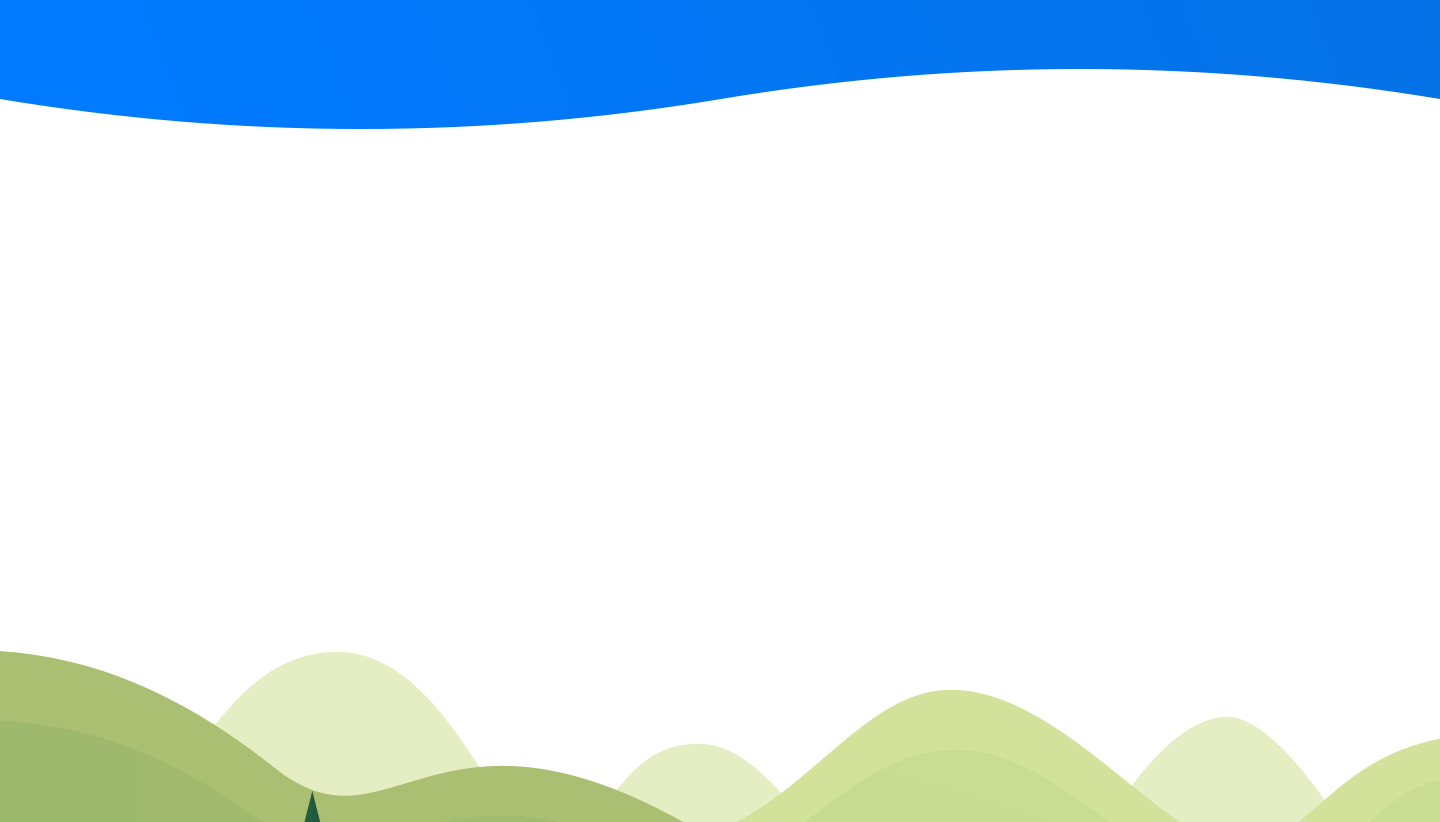
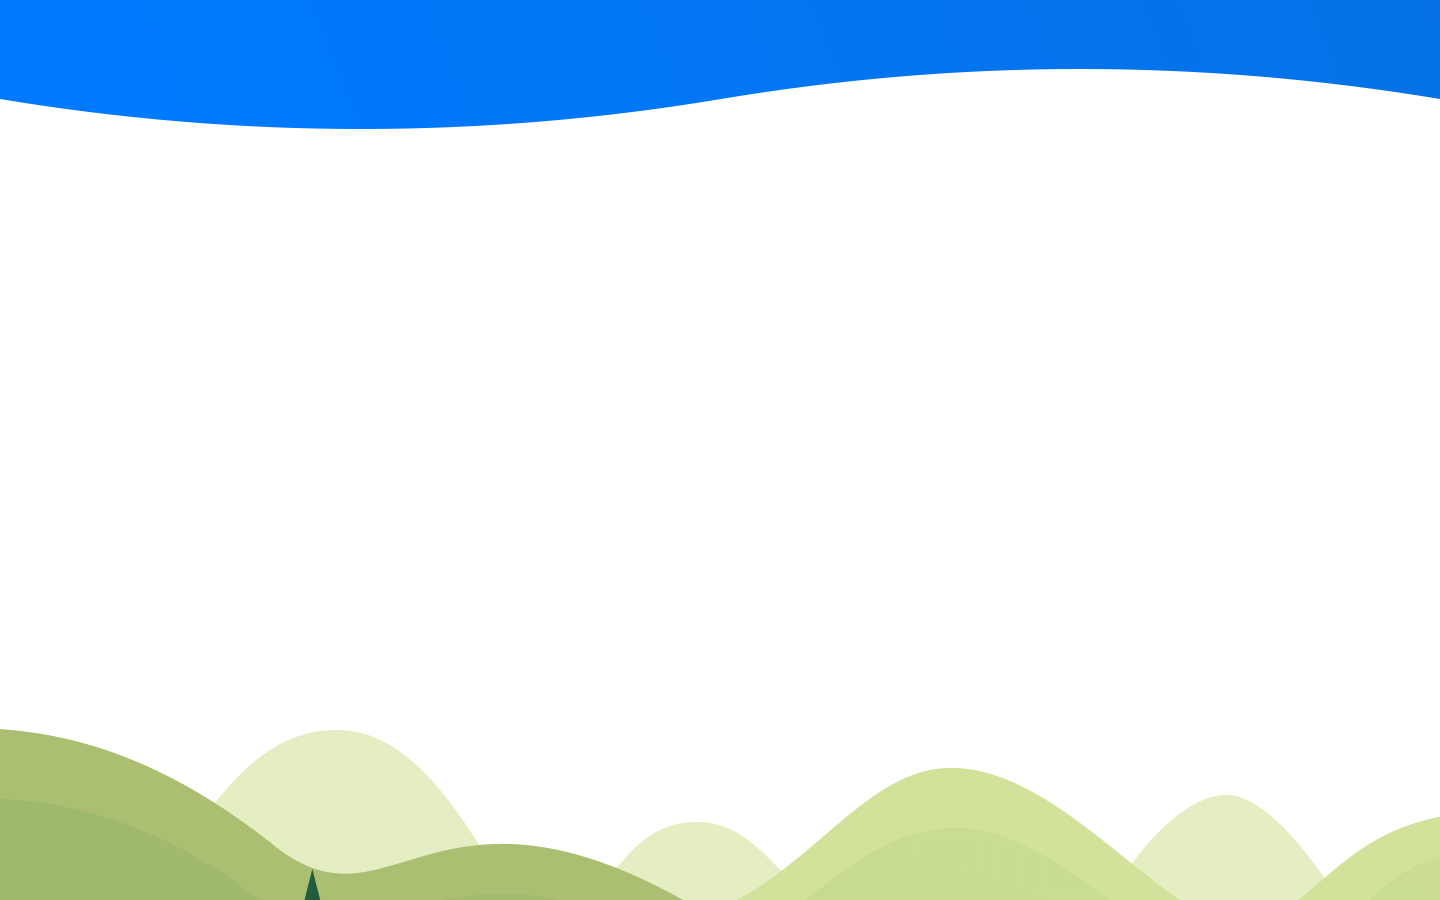
Finish Breakpoints (less 4K and Small Mobile)

diff --git a/frontend/src/components/TextContainer/styles.js b/frontend/src/components/TextContainer/styles.js
@@ -12,7 +12,22 @@ export const Container = styled.div`
   > h2 {
     margin-left: 65px;
   }
+
+  /* @media (max-width: 2560px) {
+    
+    h2 {
+      font-size: 40px;
+    }
+  } */
   
+  @media (max-width: 1440px) {
+    margin-right: 40px;
+  }
+
+  @media (max-width: 1024px) {
+    margin-right: 0;
+  }
+
   @media (max-width: 768px) {
     h2 {
       display: none;
@@ -35,13 +50,45 @@ export const Header = styled.div`
     margin-top: -160px;
   }
 
+  /* @media (max-width: 2560px) {
+    padding: 0;
+    
+    img {
+      height: 320px;
+      width: 400px;
+      margin-top: -100px;
+    }
+
+    h1 {
+      margin-top: 20px;
+      margin-left: -80px;
+      font-size: 70px;
+    }
+  } */
+
+  @media (max-width: 1440px) {
+    padding: 0;
+    
+    img {
+      height: 180px;
+      width: 260px;
+      margin-top: -145px;
+    }
+
+    h1 {
+      margin-top: -70px;
+      margin-left: -60px;
+      font-size: 45px;
+    }
+  }
+
   @media (max-width: 1024px) {
     padding: 0;
     
     img {
       height: 140px;
       width: 200px;
-      margin-top: -125px;
+      margin-top: -135px;
     }
 
     h1 {
@@ -68,7 +115,7 @@ export const Header = styled.div`
     img {
       height: 160px;
       width: 230px;
-      margin-top: 150px;
+      margin-top: 100px;
       opacity: 0.2;
     }
   }
@@ -97,6 +144,22 @@ export const Room = styled.div`
     margin:0;
     padding: 3px;
   }
+
+  /* @media (max-width: 2560px) {
+    
+    h1 {
+      margin: 0;
+      font-size: 60px;
+    }
+
+    img {
+      height: 60px;
+      width: 60px;
+      opacity: 0.7;
+      margin:0;
+      padding: 3px;
+    }
+  } */
 
   @media (max-width: 1024px) {
     h1, img {
@@ -131,6 +194,22 @@ export const Users = styled.div`
     padding: 3px;
   }
 
+   /* @media (max-width: 2560px) {
+    
+    h1 {
+      margin: 0;
+      font-size: 60px;
+    }
+
+    img {
+      height: 60px;
+      width: 60px;
+      opacity: 0.7;
+      margin:0;
+      padding: 3px;
+    }
+  } */
+
   @media (max-width: 768px) {
     h1 {
       display: none;
@@ -146,6 +225,13 @@ export const ActiveContainer = styled.div`
   display: flex;
   align-items: center;
   margin-bottom: 50%;
+
+  /* @media (max-width: 2560px) {
+    
+    h2 {
+      font-size: 40px;
+    }
+  } */
 `;
 
 export const ActiveItem = styled.div`

diff --git a/frontend/src/Pages/Login/styles.js b/frontend/src/Pages/Login/styles.js
@@ -10,12 +10,45 @@ export const Container = styled.div`
   text-align: center;
   height: 100vh;
   align-items: center;
-  background: url(${background}) no-repeat bottom;
+  background: url(${background}) no-repeat top;
+  background-size: cover;
 
   > img {
     width: 280px;
     height: 180px;
     margin-top: -130px;
+  }
+
+  @media (max-width: 2560px) {
+    img {
+      width: 350px;
+      height: 250px;
+      margin-top: -300px;
+    }
+  }
+
+  @media (max-width: 1440px) {
+    img {
+      width: 290px;
+      height: 200px;
+      margin-top: -200px;
+    }
+  }
+
+  @media (max-width: 1024px) {
+    img {
+      width: 250px;
+      height: 170px;
+      margin-top: -100px;
+    }
+  }
+
+  @media (max-width: 768px) {
+    img {
+      width: 230px;
+      height: 150px;
+      margin-top: -130px;
+    }
   }
 
   @media (max-width: 426px) {
@@ -50,16 +83,40 @@ export const Main = styled.div`
     border-radius: 8px 8px 0 0;
   }
 
+  @media (max-width: 2560px) {
+    width: 17%;
+    height:20%;
+  }
+
+  @media (max-width: 1440px) {
+    width: 27%;
+    height:35%;
+  }
+
+  @media (max-width: 1024px) {
+    width: 25%;
+    height:43%;
+  }
+
   @media (max-width: 1025px) {
     width: 35%;
   }
 
-  @media (max-width: 769px) {
+  @media (max-width: 768px) {
     width: 45%;
   }
 
   @media (max-width: 426px) {
     width: 70%;
+  }
+
+  @media (max-width: 320px) {
+    width: 80%;
+    height: 40%;
+    
+    h1 {
+      font-size: 25px;
+    }
   }
 `;
 

diff --git a/frontend/src/Pages/Chat/styles.js b/frontend/src/Pages/Chat/styles.js
@@ -8,7 +8,7 @@ export const Container = styled.div`
   align-items: center;
   height: 100vh;
   background: url(${background}) no-repeat top;
-
+  background-size: cover;
 
   @media (max-width: 425px) {
     background: url(${shape}) no-repeat bottom;
@@ -25,24 +25,35 @@ export const Main = styled.div`
   width: 35%;
   box-shadow: -40px 40px 30px rgba(0, 0, 0, 0.2);
 
-  @media (max-width: 1025px) {
+  /* @media (max-width: 2560px) {
     margin-right: -70px;
-    width: 45%;
-    height: 50%;
+    width: 30%;
+    height: 60%;
+  } */
+
+  @media (max-width: 1440px) {
+    margin-right: -90px;
+  }
+
+  @media (max-width: 1024px) {
+    margin-right: -70px;
+    width: 40%;
+    height: 61%;
   }
 
   @media (max-width: 768px) {
-    margin-left: -380px;
+    margin-left: -365px;
     width: 53%;
-    height: 53%;
-    margin-top: 20px;
+    height: 60%;
+    margin-top: 80px;
   }
 
   @media (max-width: 425px) {
     width: 100%;
-    height: 98%;
+    height: 100%;
     box-shadow: none;
     margin-top: 0;
+    margin-right: -55px;
   }
 
   @media (max-width: 375px) {

diff --git a/frontend/src/components/Messages/Message/styles.js b/frontend/src/components/Messages/Message/styles.js
@@ -14,6 +14,10 @@ export const ContainerSend = styled.div`
     letter-spacing: 0.3px;
     padding-right: 10px;
   }
+
+  /* @media (max-width: 2560px) {
+    font-size: 25px;
+  } */
 `;
 
 export const MessageBoxSend = styled.div`
@@ -34,6 +38,10 @@ export const MessageBoxSend = styled.div`
     word-wrap: break-word;
     padding-right: 10px;
   }
+
+  /* @media (max-width: 2560px) {
+    font-size: 25px;
+  } */
 `;
 
 export const ContainerRecive = styled.div`
@@ -50,6 +58,10 @@ export const ContainerRecive = styled.div`
     letter-spacing: 0.3px;
     padding-left: 10px;
   }
+
+  /* @media (max-width: 2560px) {
+    font-size: 25px;
+  } */
 `;
 
 export const MessageBoxRecive = styled.div`
@@ -70,4 +82,8 @@ export const MessageBoxRecive = styled.div`
     word-wrap: break-word;
     padding-right: 10px;
   }
+
+  /* @media (max-width: 2560px) {
+    font-size: 25px;
+  } */
 `;

diff --git a/frontend/src/components/Input/styled.js b/frontend/src/components/Input/styled.js
@@ -25,7 +25,17 @@ export const Container = styled.div`
       border-radius: 30px 0 0 30px ;
       margin-left: 10px;
     }
+
+    /* @media (max-width: 2560px) {
+      font-size: 25px;
+      height: 85px;
+      margin-top:-30px;
+    } */
   }
+
+  /* @media (max-width: 2560px) {
+      border-top: none;
+    } */
   
   @media (max-width: 425px) {
     margin-bottom: 10px;
@@ -51,6 +61,12 @@ export const Button = styled.div`
   &:hover {
     background: ${shade(0.2, '#991a1d')};
   }
+
+  /* @media (max-width: 2560px) {
+    font-size: 25px;
+    height: 85px;
+    margin-top:-30px;
+  } */
 
   @media (max-width: 425px) {
     border-radius: 0px 30px 30px 0px ;

diff --git a/frontend/src/components/InfoBar/styles.js b/frontend/src/components/InfoBar/styles.js
@@ -9,14 +9,14 @@ export const Container = styled.div`
   height: 60px;
   width: 100%;
 
-  @media (max-width: 768px) {
-    border-radius: 0;
-  }
+  /* @media (max-width: 2560px) {
+    height: 100px;
+    font-size: 25px;
+  } */
 
   @media (max-width: 425px) {
-      margin-top: -10px;
+    border-radius: 0;
     }
-
 `;
 
 export const Room = styled.div`

diff --git a/frontend/src/styles/Global.js b/frontend/src/styles/Global.js
@@ -9,6 +9,7 @@ export default createGlobalStyle`
     font-family: 'Roboto', sans-serif;
     padding: 0;
     margin: 0;
+    background: 100%;
   }
   
 #root {
